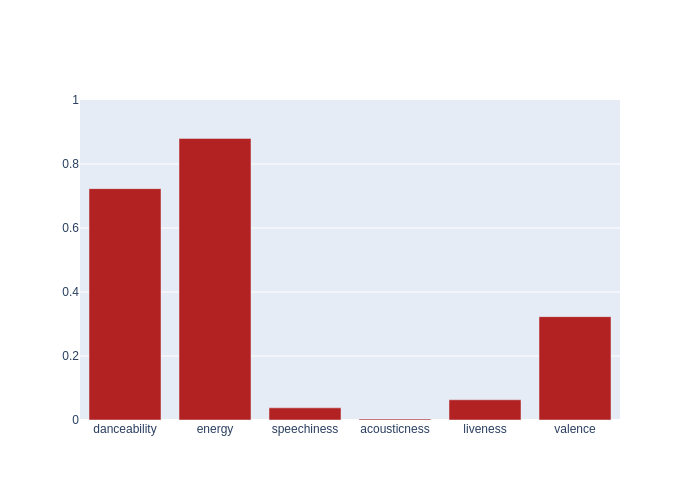
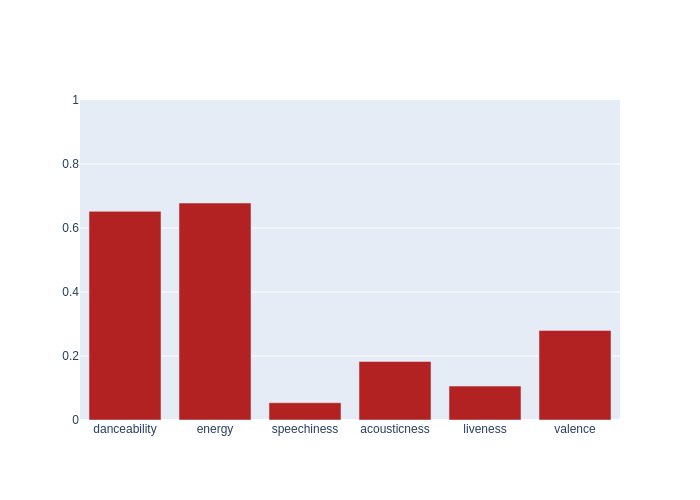
Automated README update

diff --git a/README.md b/README.md
@@ -4,7 +4,7 @@ Automated music metrics for fun, updated hourly.
 
 ## Spotify
 
-- currently listening to **Lady Gaga - Alice**
+- currently listening to **Khalid - OTW**
 
 - **866** liked songs
 - **136** playlists
